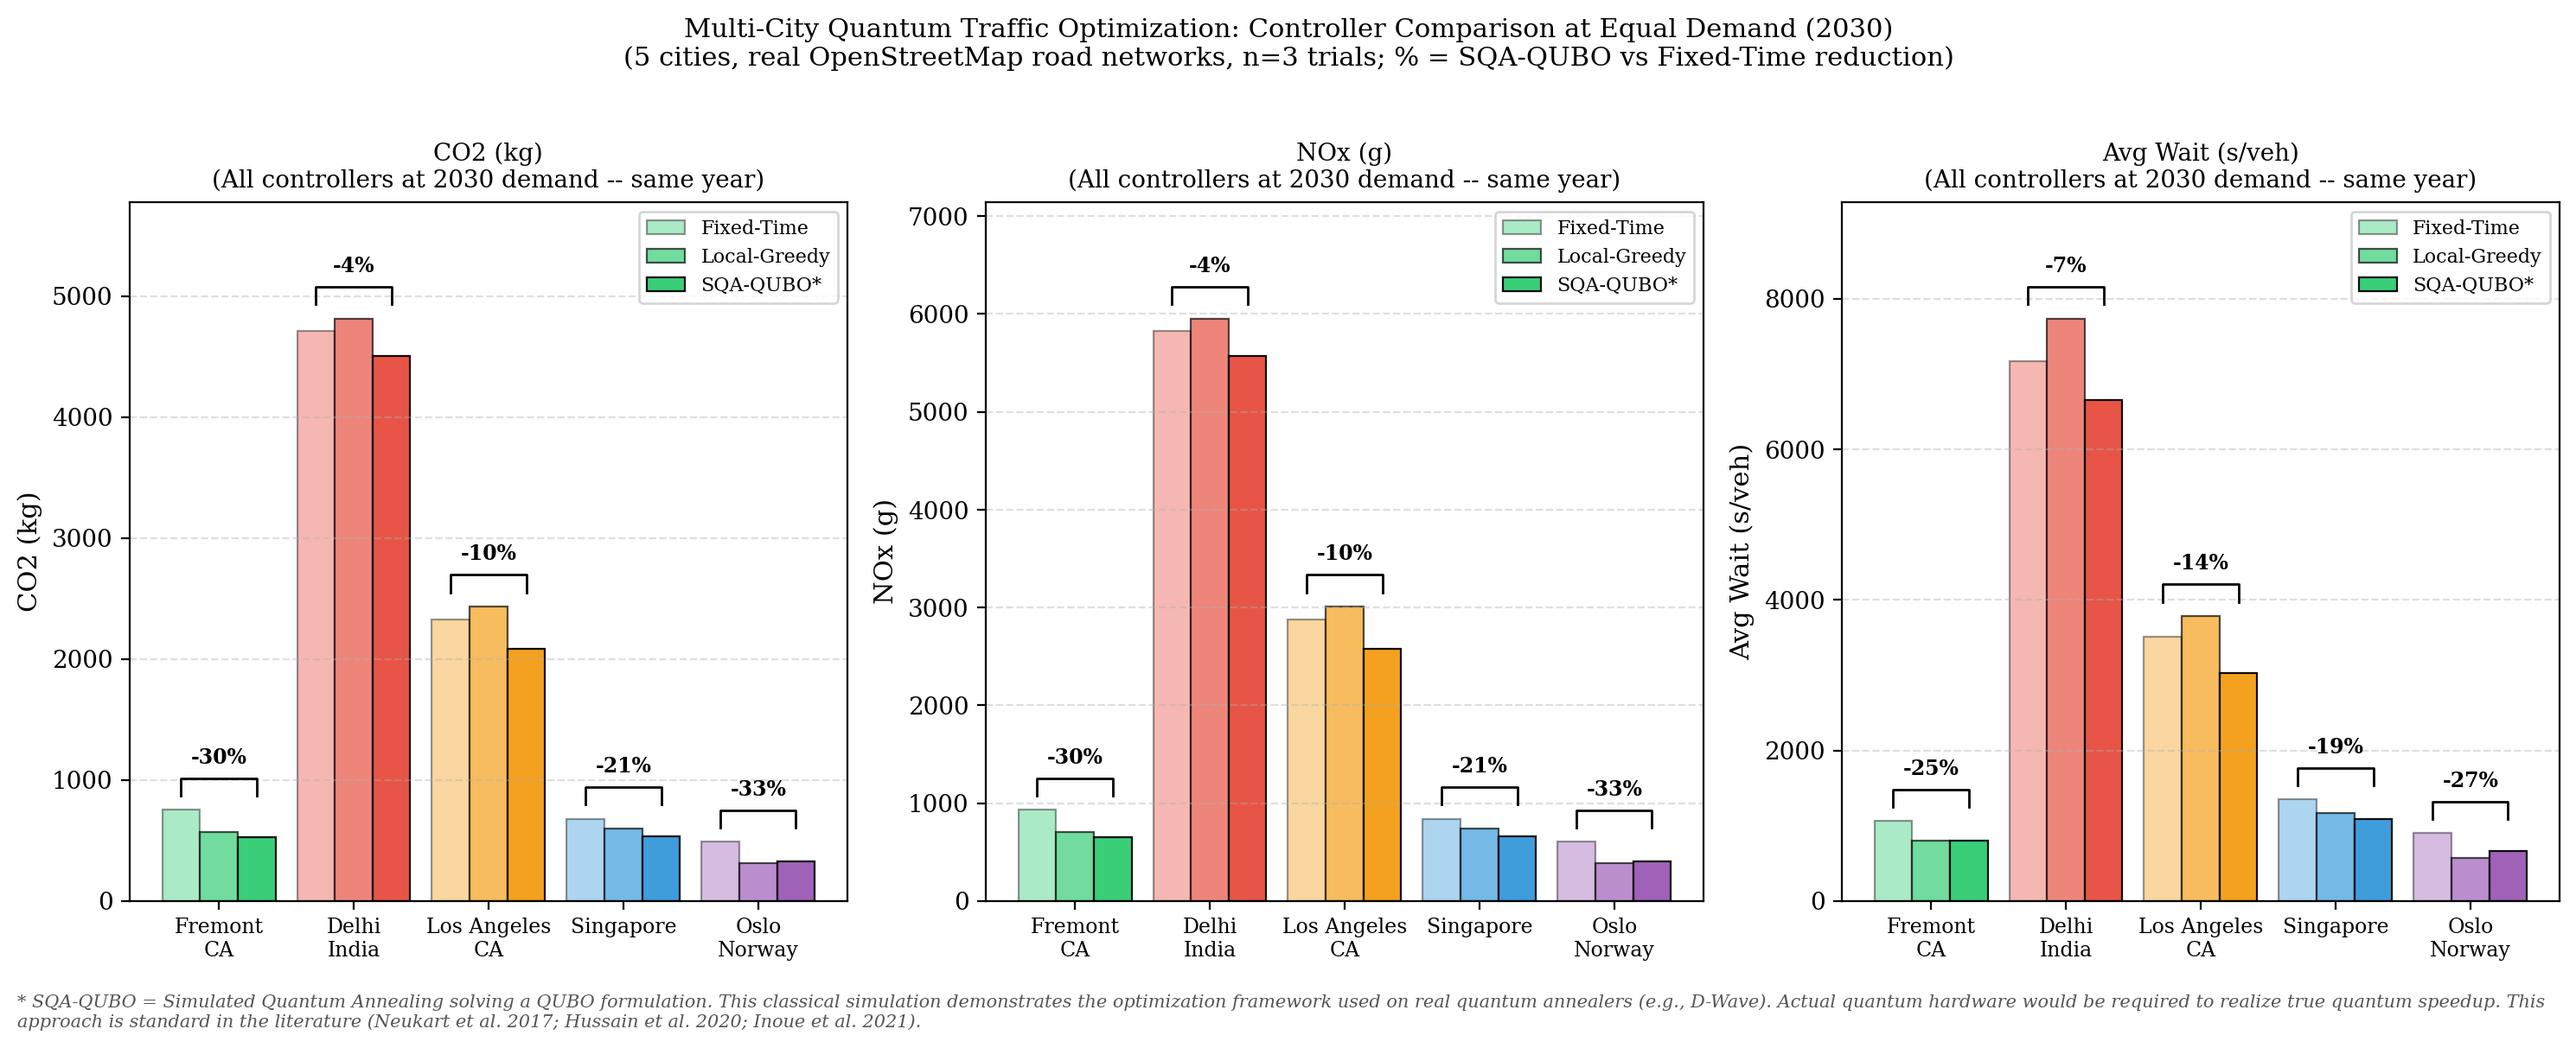
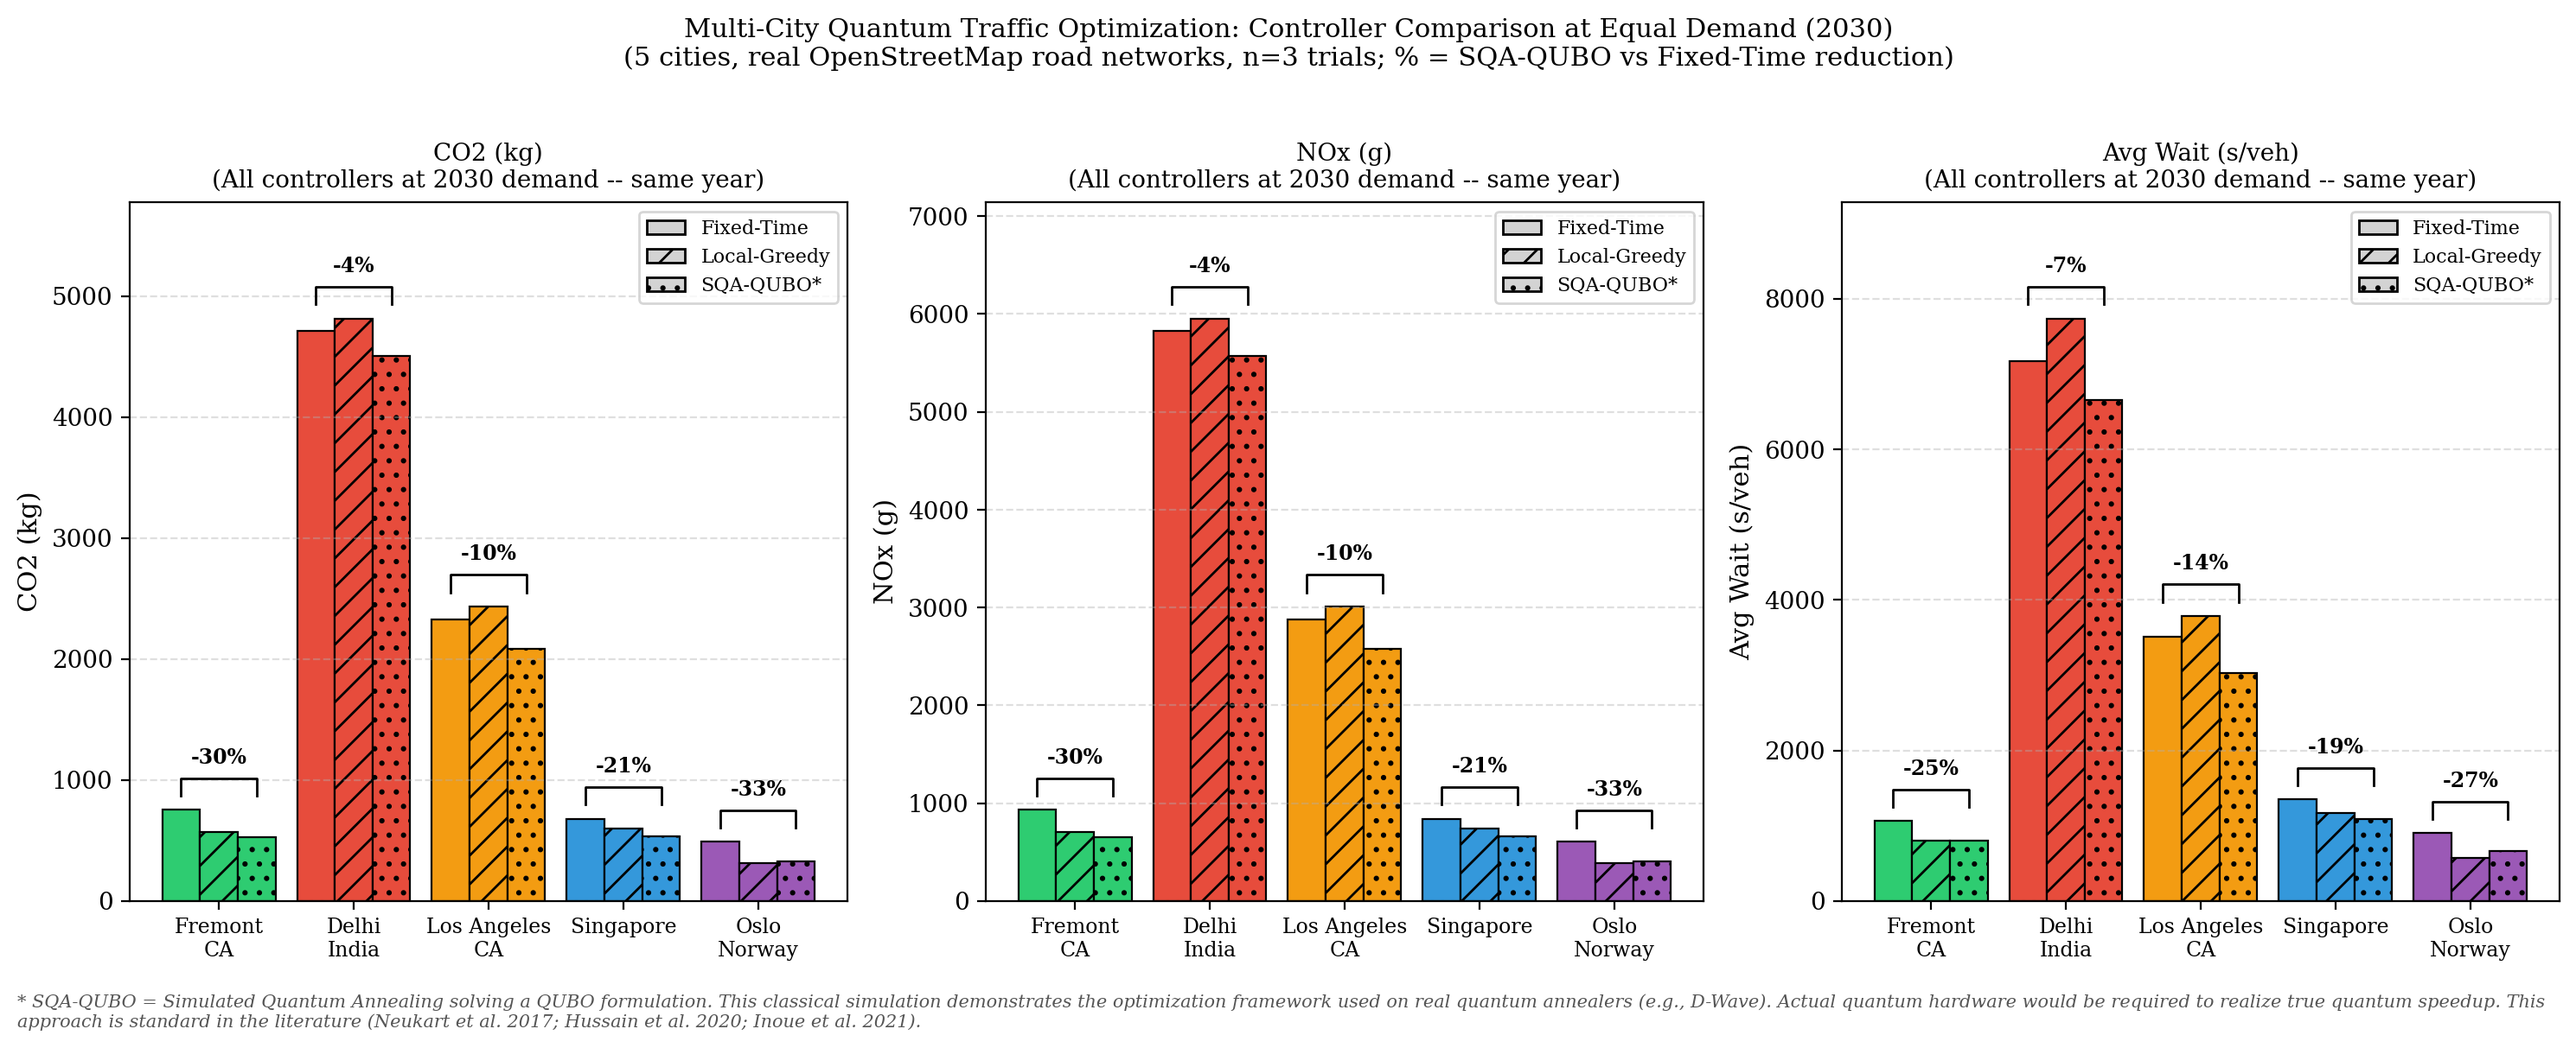
Fix the same legend-color bug in fig08 (missed it there earlier); switch controller encoding to hatch patterns; fix remaining label overlaps
- fig08 had the identical bug already fixed in fig11/fig12: a per-city
  color list passed into ax.bar() with label= made the legend grab one
  arbitrary city's color (Fremont's green) at every alpha level for all
  three legend entries.
- fig08 and fig12: switched from alpha levels / flat gray to hatch
  patterns (solid / diagonal / dots) so every bar keeps its own city's
  color and the controller is distinguished by a pattern instead of a
  subtle transparency difference that's easy to misread.
- fig12: the PM2.5 annotation row used a data-coordinate y-offset, which
  put it too close to the two-line "City\nCountry" tick labels at some
  y-axis scales and made both illegible where they overlapped. Switched
  to an axes-fraction offset so the clearance no longer depends on the
  data range.
- fig11: percentage labels floated above each bar; on the now-staircase-
  sorted chart, adjacent bars are close enough in height that wide label
  text spilled sideways into the neighboring bar's label. Moved the
  labels inside each bar near its own top instead, which makes that kind
  of cross-bar collision impossible by construction.
- fig13: added an on-chart annotation stating both relevant counts
  explicitly (14/14 cities where QA-QUBO beats Fixed-Time at equal
  demand, vs. 4/14 where 2030 CO2 is actually lower than today's after
  5 years of demand growth) so the chart can't be misread as "the
  controller doesn't work" when it's actually answering a harder,
[…]

diff --git a/world_city_sim.py b/world_city_sim.py
@@ -240,28 +240,35 @@ def main():
     gr_vals = [all_results[c][2030]['Local-Greedy']['co2_kg']['mean'] for c in ordered]
     qa_vals = [all_results[c][2030]['QA-QUBO']['co2_kg']['mean'] for c in ordered]
 
-    ax.bar(x - width, ft_vals, width, color='#7f8c8d', edgecolor='black', lw=0.6)
-    ax.bar(x,          gr_vals, width, color=colors, alpha=0.55, edgecolor='black', lw=0.6)
-    ax.bar(x + width,  qa_vals, width, color=colors, alpha=0.95, edgecolor='black', lw=0.6)
+    # All three bars per city use that city's own color (not gray, not alpha
+    # levels) -- the controller is distinguished by hatch pattern instead, so
+    # it reads correctly without needing to compare subtle transparency levels.
+    ax.bar(x - width, ft_vals, width, color=colors, edgecolor='black', lw=0.6)
+    ax.bar(x,          gr_vals, width, color=colors, edgecolor='black', lw=0.6, hatch='//')
+    ax.bar(x + width,  qa_vals, width, color=colors, edgecolor='black', lw=0.6, hatch='..')
 
     # Bar color = city (see x-axis labels); passing a per-city color list into ax.bar()
-    # with label= made the legend grab one arbitrary city's color for "Local-Greedy"/
-    # "QA-QUBO". Neutral gray proxies at the same alphas as the real bars instead.
+    # with label= made the legend grab one arbitrary city's color for every entry.
+    # Neutral gray proxies with the same hatch patterns as the real bars instead.
     legend_handles = [
-        mpatches.Patch(facecolor='#7f8c8d', edgecolor='black', label='Fixed-Time'),
-        mpatches.Patch(facecolor='gray', edgecolor='black', alpha=0.55, label='Local-Greedy'),
-        mpatches.Patch(facecolor='gray', edgecolor='black', alpha=0.95, label='QA-QUBO'),
+        mpatches.Patch(facecolor='lightgray', edgecolor='black', label='Fixed-Time'),
+        mpatches.Patch(facecolor='lightgray', edgecolor='black', hatch='//', label='Local-Greedy'),
+        mpatches.Patch(facecolor='lightgray', edgecolor='black', hatch='..', label='QA-QUBO'),
     ]
 
-    y_row = -max(ft_vals) * 0.06
-    ax.text(-0.9, y_row, 'PM2.5 (2023,\nµg/m³):', ha='right', va='top', fontsize=7.5,
-            color='black', linespacing=1.3)
+    # Axes-fraction y (not data-coordinate) so this row's clearance from the
+    # two-line "City\nCountry" tick labels doesn't depend on the data range --
+    # a data-coordinate offset left them colliding at some y-axis scales.
+    y_row = -0.145
+    ax.text(-0.045, y_row, 'PM2.5 (2023,\nµg/m³):', ha='right', va='top', fontsize=7.5,
+            color='black', linespacing=1.3, transform=ax.transAxes)
     for i, c in enumerate(ordered):
         pm = ALL_CITIES[c]['pm25_2023']
         conf = ALL_CITIES[c]['source_confidence']
         mark = '' if conf == 'verified' else '*'
         ax.text(x[i], y_row, f'{pm:.1f}{mark}', ha='center', va='top',
-                fontsize=8, color='black', fontweight='bold')
+                fontsize=8, color='black', fontweight='bold',
+                transform=ax.get_xaxis_transform())
 
     ax.set_xticks(x)
     ax.set_xticklabels(short, fontsize=8)
@@ -284,15 +291,18 @@ def main():
     # legend AND a 2-shape controller legend cross-referenced simultaneously
     # just to read one point, which was genuinely too much to decode.
     # =========================================================================
-    pct_qa_vals, pct_gr_vals = [], []
-    for c in ordered:
+    pct_qa_vals, pct_gr_vals, pct_qa_sameyear = [], [], []
+    for i, c in enumerate(ordered):
         ft25 = all_results[c][2025]['Fixed-Time']['co2_kg']['mean']
         gr30 = all_results[c][2030]['Local-Greedy']['co2_kg']['mean']
         qa30 = all_results[c][2030]['QA-QUBO']['co2_kg']['mean']
         pct_gr_vals.append(100 * (ft25 - gr30) / ft25)
         pct_qa_vals.append(100 * (ft25 - qa30) / ft25)
+        # same-year effect (fig12's comparison): controller vs Fixed-Time at
+        # the SAME 2030 demand -- isolates the controller from demand growth
+        pct_qa_sameyear.append(100 * (ft_vals[i] - qa_vals[i]) / ft_vals[i])
 
-    fig, ax = plt.subplots(figsize=(15, 6.5))
+    fig, ax = plt.subplots(figsize=(15, 7.2))
     width = 0.32
     GREEN, RED = '#27ae60', '#c0392b'
     qa_colors = [GREEN if v >= 0 else RED for v in pct_qa_vals]
@@ -300,7 +310,7 @@ def main():
 
     ax.bar(x - width / 2, pct_qa_vals, width, color=qa_colors, alpha=0.95,
            edgecolor='black', lw=0.6, label='QA-QUBO')
-    ax.bar(x + width / 2, pct_gr_vals, width, color=qa_colors and gr_colors, alpha=0.55,
+    ax.bar(x + width / 2, pct_gr_vals, width, color=gr_colors, alpha=0.55,
            edgecolor='black', lw=0.6, hatch='//', label='Local-Greedy')
     ax.axhline(0, color='black', lw=1)
 
@@ -311,6 +321,18 @@ def main():
         mpatches.Patch(facecolor=RED, edgecolor='black', label='Net increase (growth outpaced the controller)'),
     ]
     ax.legend(handles=legend_handles, fontsize=8.5, loc='lower left')
+
+    n_sameyear_positive = sum(1 for v in pct_qa_sameyear if v >= 0)
+    n_net_positive = sum(1 for v in pct_qa_vals if v >= 0)
+    ax.text(0.99, 0.03,
+            f'Two different questions:\n'
+            f'• Does QA-QUBO beat Fixed-Time at the SAME demand level? '
+            f'Yes, in {n_sameyear_positive}/{len(ordered)} cities (see fig12).\n'
+            f'• Is total 2030 CO2 lower than TODAY, after 5 years of demand growth too? '
+            f'Only in {n_net_positive}/{len(ordered)} cities (this chart).\n'
+            f'The bars below answer the second, harder question -- a red bar does not mean the controller failed.',
+            transform=ax.transAxes, ha='right', va='bottom', fontsize=8,
+            bbox=dict(boxstyle='round,pad=0.4', facecolor='white', edgecolor='black', alpha=0.95))
 
     ax.set_xticks(x)
     ax.set_xticklabels(short, fontsize=8)

diff --git a/fix_figures.py b/fix_figures.py
@@ -59,12 +59,25 @@ for ax_i, (metric, mlabel) in enumerate(zip(metrics, m_labels)):
     local_2030 = [all_results[c]['2030']['Local-Greedy'][metric]['mean'] for c in city_names]
     qubo_2030  = [all_results[c]['2030']['QA-QUBO'][metric]['mean']   for c in city_names]
 
-    b1 = ax.bar(x - width, fixed_2030, width, label='Fixed-Time',
-                color=colors, alpha=0.40, edgecolor='black', lw=0.8)
-    b2 = ax.bar(x,          local_2030, width, label='Local-Greedy',
-                color=colors, alpha=0.68, edgecolor='black', lw=0.8)
-    b3 = ax.bar(x + width,  qubo_2030,  width, label='SQA-QUBO*',
-                color=colors, alpha=0.95, edgecolor='black', lw=0.8)
+    # All three bars per city use that city's own color; the controller is
+    # distinguished by hatch pattern rather than subtle alpha levels, same
+    # convention as fig12.
+    b1 = ax.bar(x - width, fixed_2030, width,
+                color=colors, edgecolor='black', lw=0.8)
+    b2 = ax.bar(x,          local_2030, width,
+                color=colors, edgecolor='black', lw=0.8, hatch='//')
+    b3 = ax.bar(x + width,  qubo_2030,  width,
+                color=colors, edgecolor='black', lw=0.8, hatch='..')
+
+    # Bar color = city (see x-axis labels); passing a per-city color list into
+    # ax.bar() with label= made the legend grab one arbitrary city's color
+    # (Fremont's green) for every entry. Neutral gray proxies with the same
+    # hatch patterns as the real bars instead.
+    legend_handles = [
+        mpatches.Patch(facecolor='lightgray', edgecolor='black', label='Fixed-Time'),
+        mpatches.Patch(facecolor='lightgray', edgecolor='black', hatch='//', label='Local-Greedy'),
+        mpatches.Patch(facecolor='lightgray', edgecolor='black', hatch='..', label='SQA-QUBO*'),
+    ]
 
     ax.set_ylim(0, max(max(fixed_2030), max(local_2030), max(qubo_2030)) * 1.20)
     bracket_h = ax.get_ylim()[1] * 0.025
@@ -86,7 +99,7 @@ for ax_i, (metric, mlabel) in enumerate(zip(metrics, m_labels)):
     ax.set_xticklabels(short_names, fontsize=8.5)
     ax.set_ylabel(mlabel)
     ax.set_title(f'{mlabel}\n(All controllers at 2030 demand -- same year)', fontsize=10)
-    ax.legend(fontsize=8)
+    ax.legend(handles=legend_handles, fontsize=8)
     ax.grid(True, axis='y', ls='--', alpha=0.4)
 
 # Footnote clarifying SQA vs real quantum hardware

diff --git a/real_city_sim.py b/real_city_sim.py
@@ -625,13 +625,15 @@ if __name__ == '__main__':
 
     bars = ax.bar(fig11_short, co2_saved, color=fig11_colors,
                   edgecolor='black', lw=0.9, alpha=0.88)
-    ax.set_ylim(0, max(co2_saved) * 1.22)
-    label_pad = ax.get_ylim()[1] * 0.02
+    ax.set_ylim(0, max(co2_saved) * 1.10)
+    # Labels sit inside each bar, near its own top, instead of floating above
+    # the bar group -- floating labels on a staircase-sorted chart spill
+    # sideways into the neighboring (almost-as-tall) bar's label.
     for bar, pct in zip(bars, pct_saved):
         sign = '+' if pct >= 0 else '-'
         ax.text(bar.get_x() + bar.get_width() / 2,
-                bar.get_height() + label_pad,
-                f'{sign}{abs(pct):.1f}% reduction', ha='center', va='bottom',
+                bar.get_height() * 0.96,
+                f'{sign}{abs(pct):.1f}%\nreduction', ha='center', va='top',
                 fontsize=8.5, fontweight='bold', color='black')
 
     ax.set_ylabel('Annual CO2 Saved (metric tonnes, area-scaled)')
